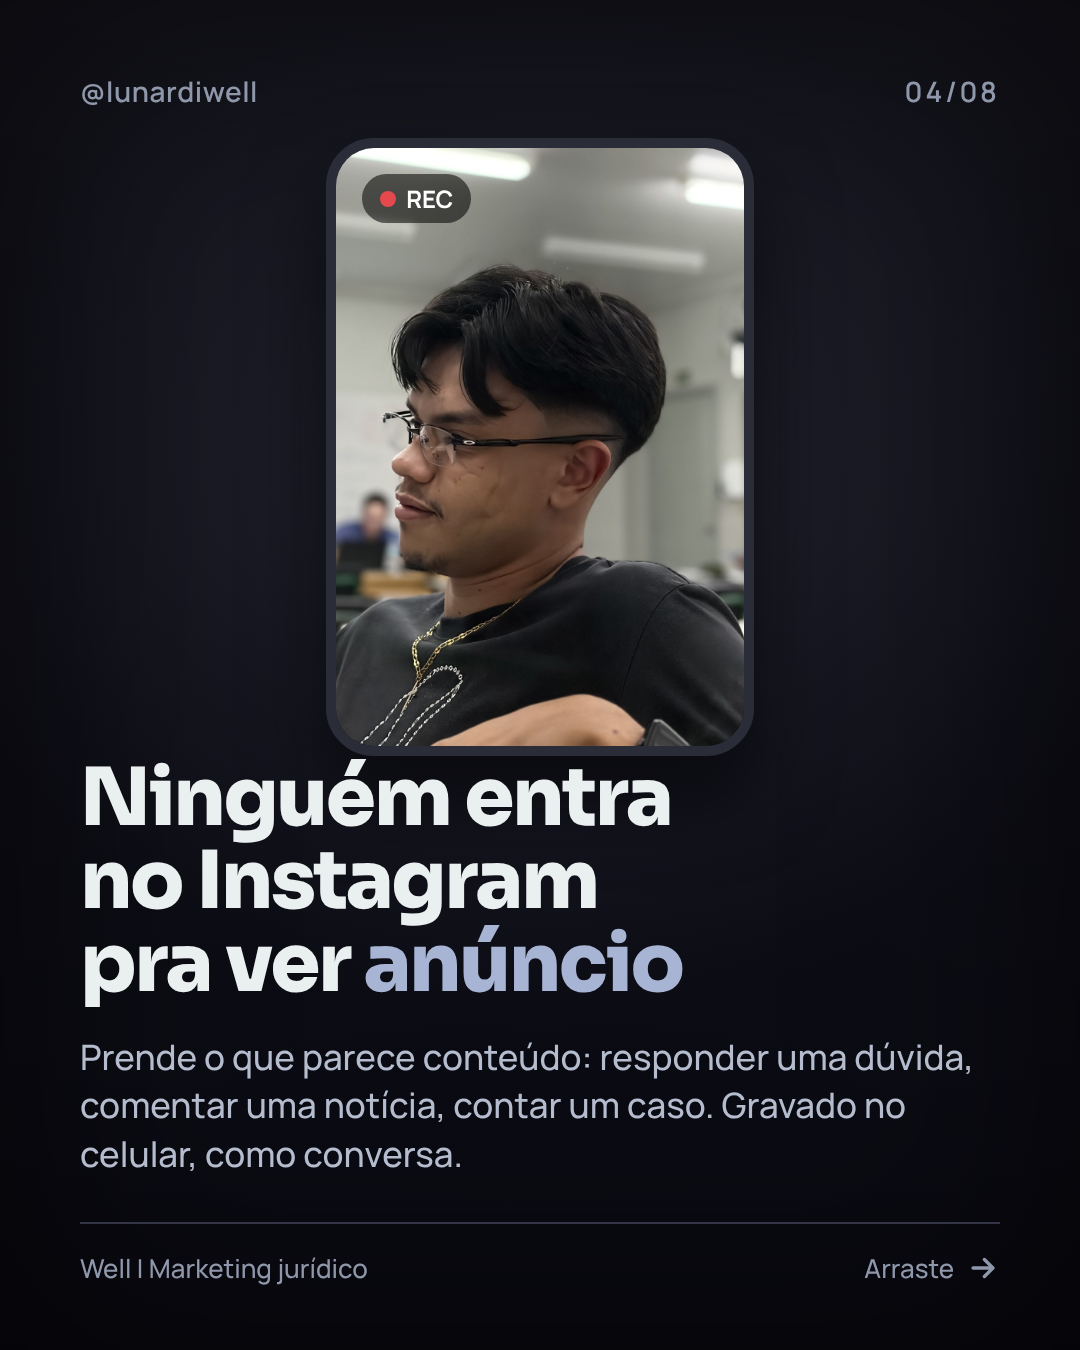
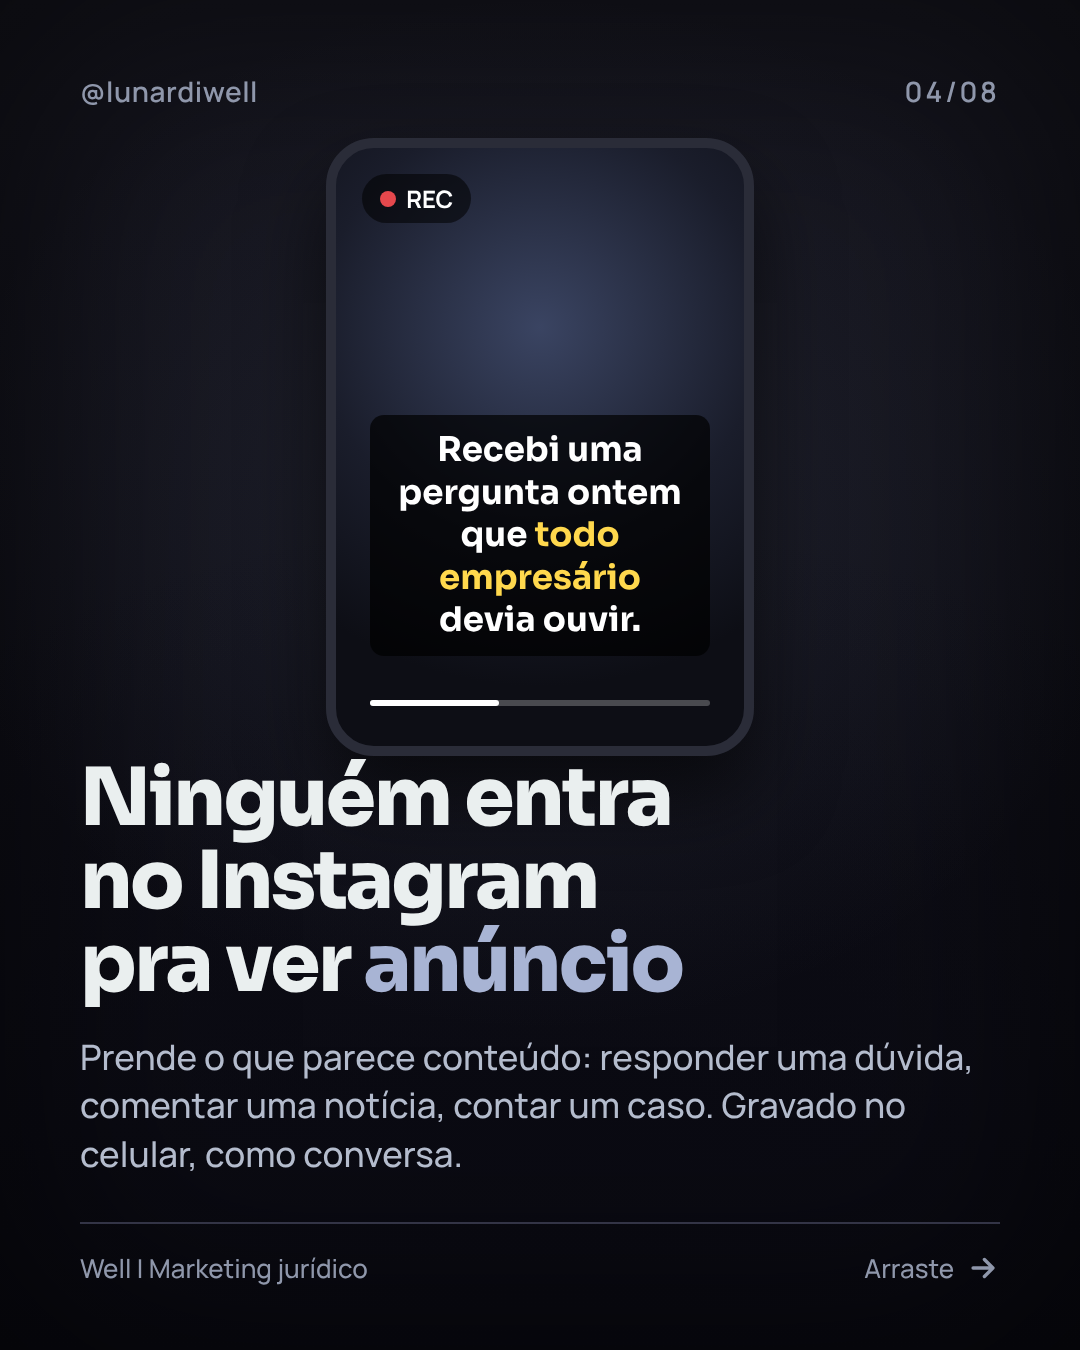
Carrossel sem foto do Well: vídeo com legenda, caixinha em fundo neutro e cartão de perfil no final
Claude-Session: https://claude.ai/code/session_017aW8bq2pBRw9z6mqaDHLw4

Changed region(s): [[0.3056, 0.0933, 0.7028, 0.56]]

diff --git a/skill/conteudo-well-advogados/templates/carrossel.html b/skill/conteudo-well-advogados/templates/carrossel.html
@@ -149,6 +149,24 @@
   .gravando img { width: 100%; height: 100%; object-fit: cover; }
   .gravando .rec { position: absolute; top: 26px; left: 26px; display: flex; align-items: center; gap: 10px; background: rgba(0,0,0,.55); color: #fff; font-weight: 700; font-size: 24px; padding: 8px 18px; border-radius: 999px; }
   .gravando .rec i { width: 16px; height: 16px; border-radius: 50%; background: #e5484d; }
+
+  /* Vídeo com legenda (sem foto) */
+  .gravando.sem-foto { background: radial-gradient(90% 60% at 50% 30%, #3a4462 0%, #1a1d2b 60%, #0d0e15 100%); display: flex; align-items: flex-end; justify-content: center; padding: 0 34px 90px; }
+  .gravando .leg { background: rgba(0,0,0,.7); color: #fff; font-family: var(--f-titulo), sans-serif; font-weight: 700; font-size: 34px; line-height: 1.25; text-align: center; padding: 14px 20px; border-radius: 14px; }
+  .gravando .leg em { font-style: normal; color: #ffd84d; }
+  .gravando .barra { position: absolute; left: 34px; right: 34px; bottom: 40px; height: 6px; border-radius: 3px; background: rgba(255,255,255,.25); }
+  .gravando .barra::after { content: ""; position: absolute; left: 0; top: 0; bottom: 0; width: 38%; border-radius: 3px; background: #fff; }
+  .story.sem-foto { background: radial-gradient(90% 60% at 30% 20%, #4a5578 0%, #22263a 60%, #11131c 100%); }
+
+  /* Cartão de perfil (final sem foto) */
+  .perfil { width: 760px; background: var(--cartao); border: 2px solid var(--linha); border-radius: 36px; padding: 40px; display: flex; flex-direction: column; gap: 26px; box-shadow: 0 30px 60px rgba(0,0,0,.45); }
+  .perfil .linha1 { display: flex; align-items: center; gap: 28px; }
+  .perfil .av { flex: none; width: 150px; height: 150px; border-radius: 50%; display: grid; place-items: center; font-family: var(--f-titulo), sans-serif; font-weight: 800; font-size: 64px; color: var(--fundo-profundo);
+    background: radial-gradient(circle at 35% 30%, #f2f5fb 0%, var(--elemento) 60%, #3b4256 100%); box-shadow: 0 0 0 6px var(--cartao), 0 0 0 10px var(--destaque); }
+  .perfil .nome b { display: block; font-family: var(--f-titulo), sans-serif; font-weight: 800; font-size: 40px; color: var(--texto); }
+  .perfil .nome span { font-size: 28px; color: var(--apoio); }
+  .perfil .bio { font-size: 28px; line-height: 1.35; color: var(--apoio); }
+  .perfil .seguir { text-align: center; font-weight: 800; font-size: 30px; color: var(--fundo-profundo); background: var(--destaque); border-radius: 18px; padding: 20px; }
 </style>
 </head>
 <body>
@@ -254,7 +272,7 @@ const CENAS = {
       <div class="txt">${fmt(a.texto)}</div><div class="cta"><span>${esc(a.botao || 'Saiba mais')}</span><span>›</span></div></div>`).join('')}</div>`,
   notificacoes: c => `<div class="celular"><div class="hora">${esc(c.hora || '9:41')}</div><div class="data">${esc(c.data || '')}</div>
       ${(c.itens || []).map(n => `<div class="notif" style="--ic:${esc(n.cor || '#7f8caa')}"><i>${esc(n.icone || '•')}</i><div><b>${esc(n.titulo)}<span>${esc(n.quando || 'agora')}</span></b>${fmt(n.texto)}</div></div>`).join('')}</div>`,
-  caixinha: c => `<div class="story">${c.foto ? `<img src="${esc(c.foto)}" style="object-position:${esc(c.posicao || 'center')}" alt="">` : ''}<div class="caixa"><div class="topo-cx">${esc(c.titulo || 'Me pergunta')}</div><div class="perg">${fmt(c.pergunta)}</div></div></div>`,
+  caixinha: c => `<div class="story${c.foto ? '' : ' sem-foto'}">${c.foto ? `<img src="${esc(c.foto)}" style="object-position:${esc(c.posicao || 'center')}" alt="">` : ''}<div class="caixa"><div class="topo-cx">${esc(c.titulo || 'Me pergunta')}</div><div class="perg">${fmt(c.pergunta)}</div></div></div>`,
   comparacao: c => `<div class="compara">
       <div class="lado-c errado"><small><i>✕</i>${esc(c.errado?.rotulo || 'Comum')}</small><p>${fmt(c.errado?.texto)}</p></div>
       <div class="lado-c certo"><small><i>✓</i>${esc(c.certo?.rotulo || 'Melhor')}</small><p>${fmt(c.certo?.texto)}</p></div></div>`,
@@ -263,7 +281,7 @@ const CENAS = {
     return `${c.exemplo !== false ? `<span class="exemplo exemplo-cena">${esc(c.exemplo || 'Exemplo, números redondos')}</span>` : ''}<div class="funil-n">${(c.etapas || []).map((e, i) =>
       `<div class="etapa-n${e.furo ? ' furo-n' : ''}" style="width:${100 - i * (40 / Math.max(n - 1, 1))}%"><span>${fmt(e.nome)}</span><b>${esc(e.valor)}</b></div>`).join('')}</div>`;
   },
-  foto: c => `<div class="gravando">${c.foto ? `<img src="${esc(c.foto)}" style="object-position:${esc(c.posicao || 'center')}" alt="">` : ''}${c.rec !== false ? `<span class="rec"><i></i>${esc(c.rec || 'REC')}</span>` : ''}</div>`,
+  foto: c => `<div class="gravando${c.foto ? '' : ' sem-foto'}">${c.foto ? `<img src="${esc(c.foto)}" style="object-position:${esc(c.posicao || 'center')}" alt="">` : ''}${c.rec !== false ? `<span class="rec"><i></i>${esc(c.rec || 'REC')}</span>` : ''}${c.legenda ? `<div class="leg">${fmt(c.legenda)}</div><div class="barra"></div>` : ''}</div>`,
 };
 const cena = c => `<div class="cena">${(CENAS[c.tipo] || (() => ''))(c)}</div>`;
 /* ---------- Monta o slide ---------- */
@@ -291,7 +309,9 @@ if (lay === 'capa') {
 } else if (lay === 'numero') {
   meio = `${T.exemplo !== false ? `<span class="exemplo">${esc(T.exemplo || 'Exemplo, números redondos')}</span>` : ''}<div class="numero">${esc(T.numero)}</div>${T.numero_legenda ? `<div class="numero-legenda">${fmt(T.numero_legenda)}</div>` : ''}`;
 } else if (lay === 'final') {
-  meio = retrato() + `<div class="arroba">${esc(M.arroba)}</div>`;
+  meio = M.foto ? retrato() + `<div class="arroba">${esc(M.arroba)}</div>`
+    : `<div class="perfil"><div class="linha1"><div class="av">${esc((M.nome || 'W').trim()[0])}</div><div class="nome"><b>${esc(M.arroba)}</b><span>${esc(M.nome)}</span></div></div>
+       <div class="bio">${esc(M.bio || 'Eu mostro onde o seu escritório perde cliente entre o anúncio e o contrato.')}</div><div class="seguir">Seguir</div></div>`;
   base = titulo + apoio;
 }
 

diff --git a/skill/conteudo-well-advogados/SKILL.md b/skill/conteudo-well-advogados/SKILL.md
@@ -67,9 +67,9 @@ Depois que o Well aprovar a copy slide a slide:
    | `caixinha` | Caixinha de pergunta do Stories sobre uma foto | `titulo`, `pergunta`, `foto`, `posicao` |
    | `comparacao` | Jeito comum riscado x jeito melhor | `errado: {rotulo, texto}`, `certo: {rotulo, texto}` |
    | `funil` | Etapas com número, a do furo em destaque (marcado como exemplo) | `etapas: [{nome, valor, furo}]` |
-   | `foto` | Foto do Well num quadro de celular gravando | `foto`, `posicao`, `rec` |
+   | `foto` | Quadro de celular gravando: com `legenda`, vira vídeo com legenda na tela (sem foto); com `foto`, mostra a foto | `legenda`, `foto`, `posicao`, `rec` |
 
-   Fotos do Well ficam em `assets/fotos/` (`well_rosto.jpg` é o recorte usado no anel da capa e do final).
+   Fotos do Well ficam em `assets/fotos/`, mas ele não aprovou nenhuma ainda: não use até ele mandar fotos novas. Sem foto em `marca.json`, o slide final mostra um cartão de perfil com botão "Seguir".
 
 3. Destaque na cor de destaque com `*palavra*` (uma ou duas palavras por slide, nunca a frase inteira).
 4. Renderize: `node scripts/renderizar.mjs caminho/CARROSSEL.json`. Os PNGs saem ao lado do `.json`, numerados (`_01.png`, `_02.png`...).
